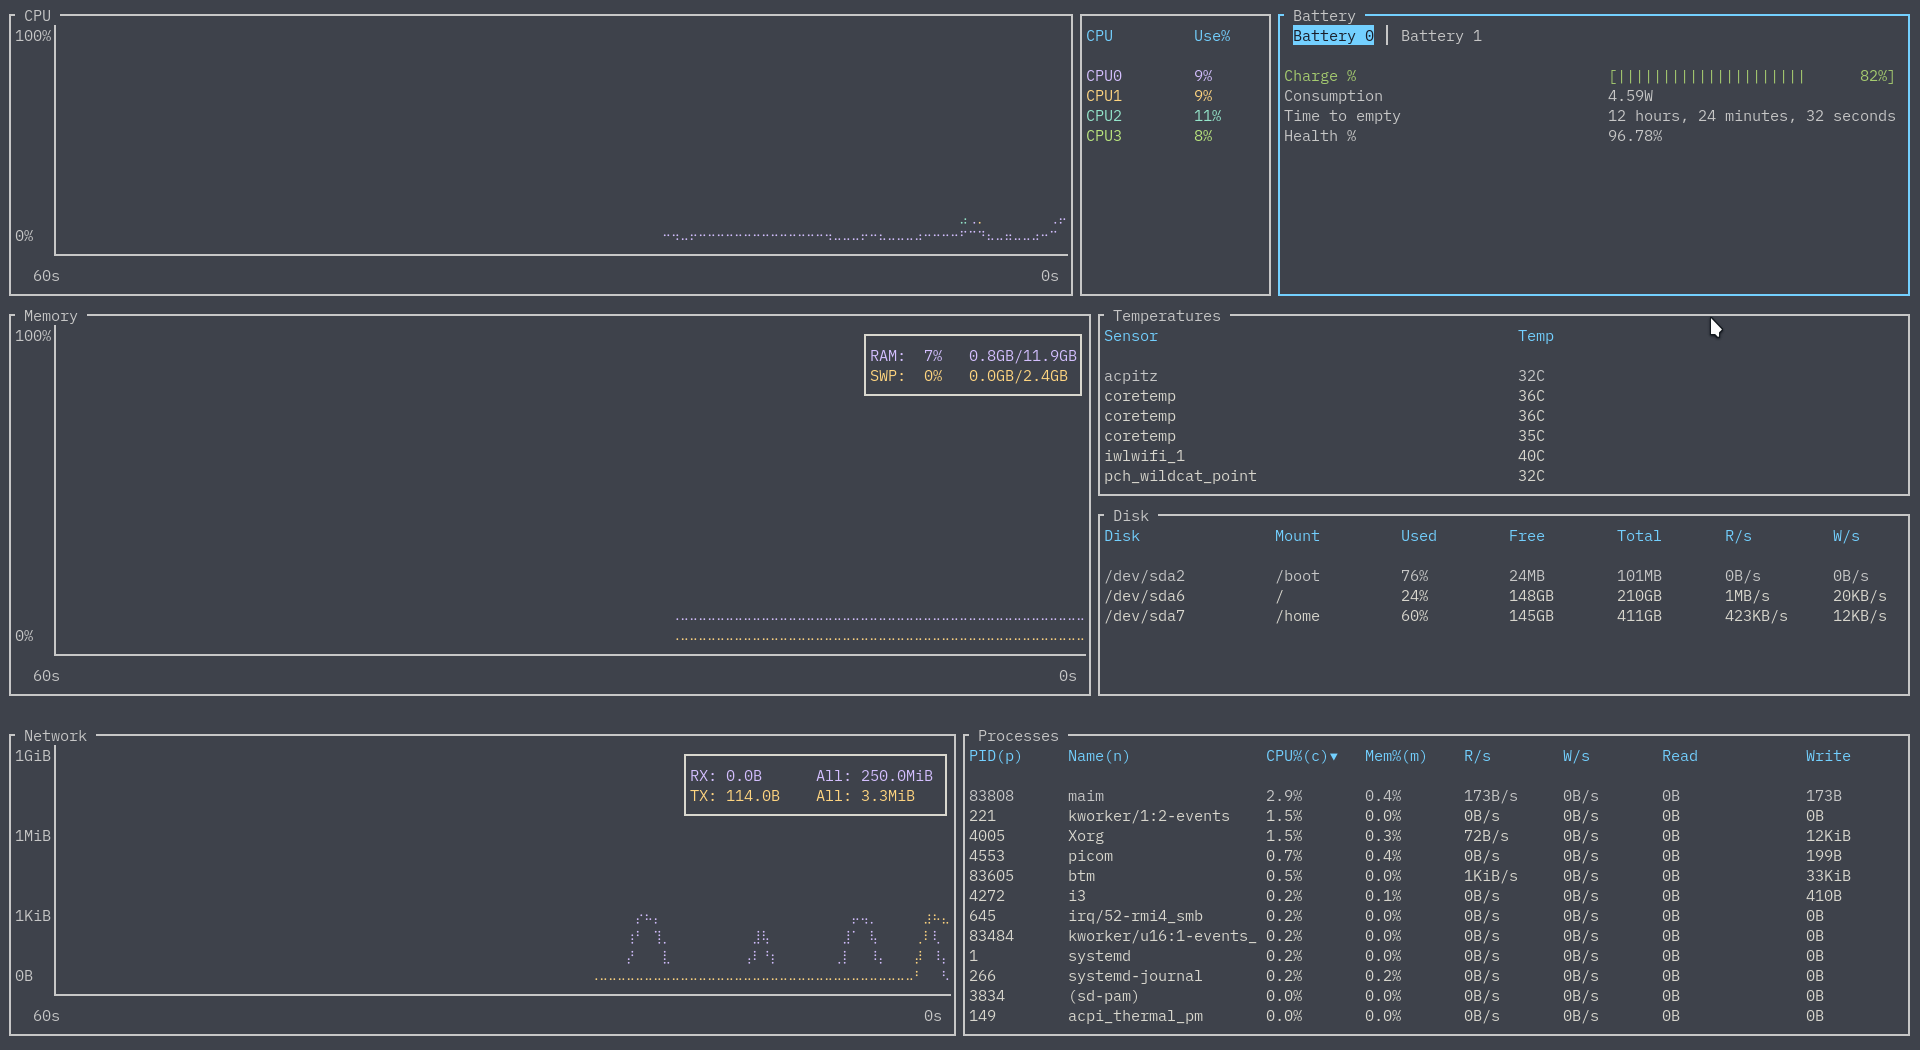
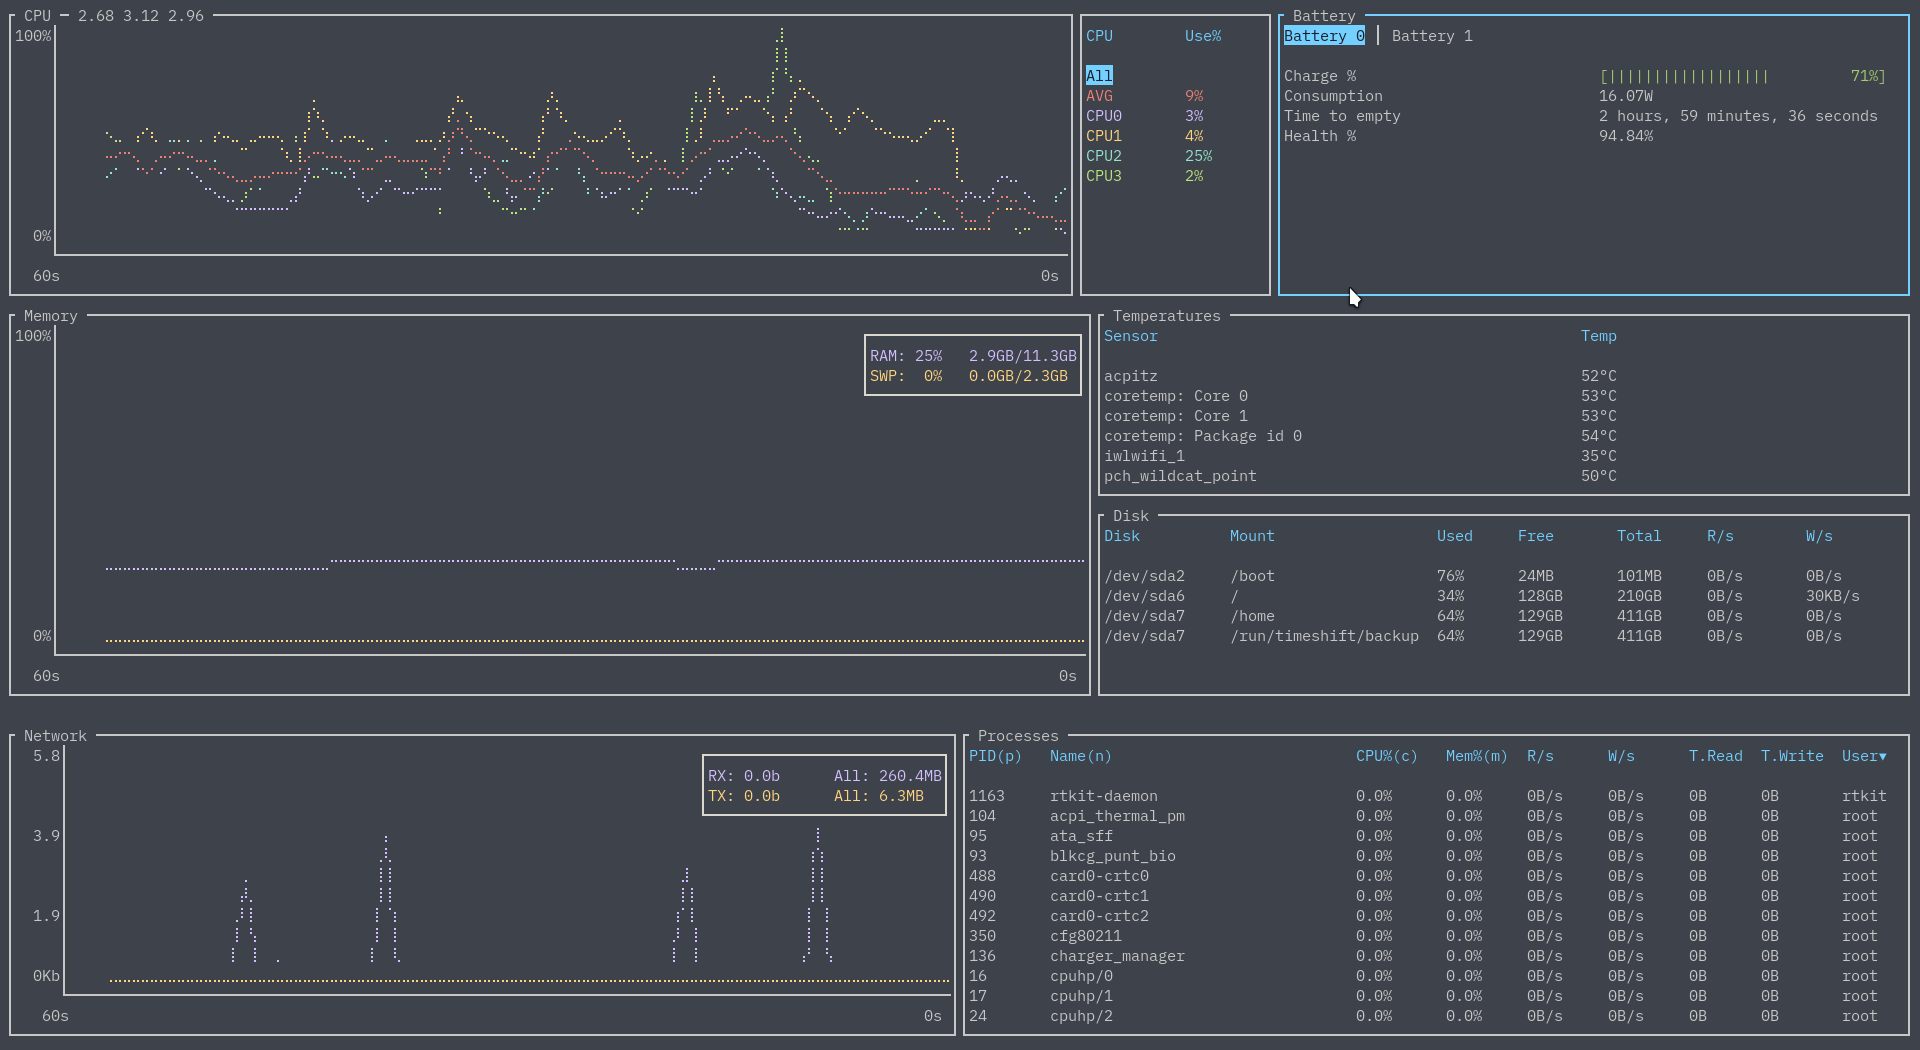
bug: Fix battery widget color and mouse

diff --git a/src/canvas/widgets/battery_display.rs b/src/canvas/widgets/battery_display.rs
@@ -9,7 +9,7 @@ use tui::{
     layout::{Constraint, Direction, Layout, Rect},
     terminal::Frame,
     text::{Span, Spans},
-    widgets::{Block, Borders, Paragraph, Row, Table, Tabs},
+    widgets::{Block, Borders, Cell, Paragraph, Row, Table, Tabs},
 };
 use unicode_segmentation::UnicodeSegmentation;
 
@@ -129,29 +129,32 @@ impl BatteryDisplayWidget for Painter {
                     charge_percentage,
                 );
 
-                let battery_items: Vec<Vec<&str>> = vec![
-                    vec!["Charge %", &bars],
-                    vec!["Consumption", &battery_details.watt_consumption],
+                let battery_rows = vec![
+                    Row::new(vec![
+                        Cell::from("Charge %").style(self.colours.text_style),
+                        Cell::from(bars).style(if charge_percentage < 10.0 {
+                            self.colours.low_battery_colour
+                        } else if charge_percentage < 50.0 {
+                            self.colours.medium_battery_colour
+                        } else {
+                            self.colours.high_battery_colour
+                        }),
+                    ]),
+                    Row::new(vec!["Consumption", &battery_details.watt_consumption])
+                        .style(self.colours.text_style),
                     if let Some(duration_until_full) = &battery_details.duration_until_full {
-                        vec!["Time to full", duration_until_full]
+                        Row::new(vec!["Time to full", duration_until_full])
+                            .style(self.colours.text_style)
                     } else if let Some(duration_until_empty) = &battery_details.duration_until_empty
                     {
-                        vec!["Time to empty", duration_until_empty]
+                        Row::new(vec!["Time to empty", duration_until_empty])
+                            .style(self.colours.text_style)
                     } else {
-                        vec!["Time to full/empty", "N/A"]
+                        Row::new(vec!["Time to full/empty", "N/A"]).style(self.colours.text_style)
                     },
-                    vec!["Health %", &battery_details.health],
+                    Row::new(vec!["Health %", &battery_details.health])
+                        .style(self.colours.text_style),
                 ];
-
-                let battery_rows = battery_items.into_iter().map(|item| {
-                    Row::new(item).style(if charge_percentage < 10.0 {
-                        self.colours.low_battery_colour
-                    } else if charge_percentage < 50.0 {
-                        self.colours.medium_battery_colour
-                    } else {
-                        self.colours.high_battery_colour
-                    })
-                });
 
                 // Draw
                 f.render_widget(
@@ -183,14 +186,13 @@ impl BatteryDisplayWidget for Painter {
                     let mut tab_click_locs: Vec<((u16, u16), (u16, u16))> = vec![];
                     for battery in battery_names {
                         // +1 because there's a space after the tab label.
-                        let width =
-                            unicode_width::UnicodeWidthStr::width(battery.as_str()) as u16 + 1;
+                        let width = unicode_width::UnicodeWidthStr::width(battery.as_str()) as u16;
                         tab_click_locs
                             .push(((current_x, current_y), (current_x + width, current_y)));
 
-                        // +2 because we want to go one space past to get to the '|', then one MORE
+                        // +4 because we want to go one space, then one space past to get to the '|', then 2 more
                         // to start at the blank space before the tab label.
-                        current_x = current_x + width + 2;
+                        current_x += width + 4;
                     }
                     battery_widget_state.tab_click_locs = Some(tab_click_locs);
                 }

diff --git a/src/app.rs b/src/app.rs
@@ -3112,7 +3112,8 @@ impl App {
                                 for (itx, ((tlc_x, tlc_y), (brc_x, brc_y))) in
                                     tab_spacing.iter().enumerate()
                                 {
-                                    if (x >= *tlc_x && y >= *tlc_y) && (x < *brc_x && y < *brc_y) {
+                                    if (x >= *tlc_x && y >= *tlc_y) && (x <= *brc_x && y <= *brc_y)
+                                    {
                                         battery_widget_state.currently_selected_battery_index = itx;
                                         break;
                                     }

diff --git a/CHANGELOG.md b/CHANGELOG.md
@@ -5,6 +5,10 @@ All notable changes to this project will be documented in this file.
 The format is based on [Keep a Changelog](https://keepachangelog.com/en/1.0.0/),
 and this project adheres to [Semantic Versioning](https://semver.org/spec/v2.0.0.html).
 
+## [0.6.2]/[0.7.0] - Unreleased
+
+## Bug Fixes
+
 ## [0.6.1] - 2021-05-11
 
 ## Bug Fixes
